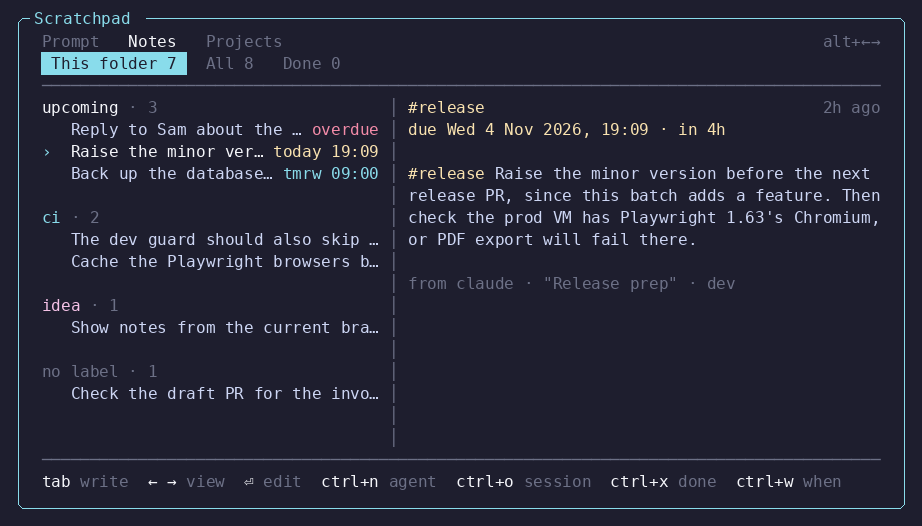
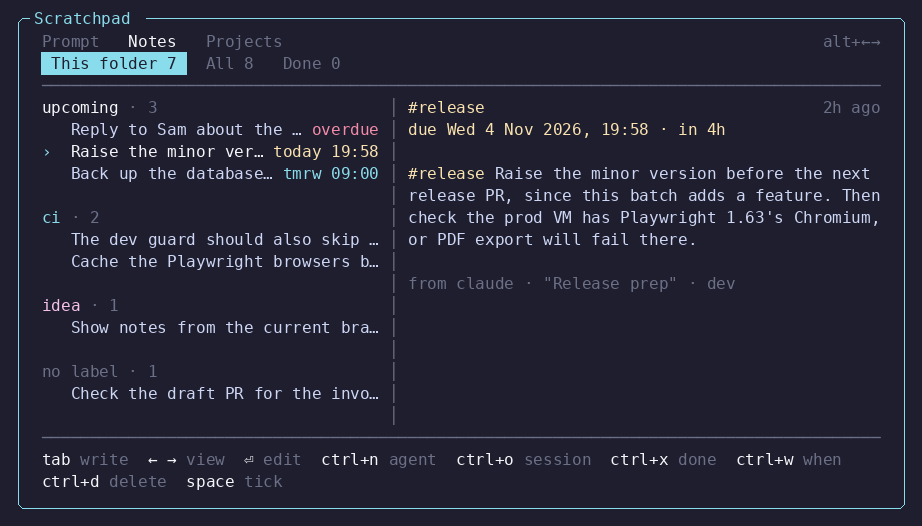
Wrap the notes footer onto a second line instead of cutting keys
Adding the view hint pushed delete and tick off the end at the default
width.

Changed region(s): [[0.0304, 0.8213, 0.9111, 0.943], [0.5163, 0.9125, 0.6377, 0.943], [0.3948, 0.2738, 0.4252, 0.3042]]

diff --git a/scratchpad/bin/popup.js b/scratchpad/bin/popup.js
@@ -149,6 +149,22 @@ function keys(pairs, width = Infinity) {
   return shown.join("  ");
 }
 
+// The same pairs over as many lines as they need.
+function keyLines(pairs, width) {
+  const lines = [[]];
+  let used = 0;
+  for (const [key, label] of pairs.filter(Boolean)) {
+    const size = displayWidth(`${key} ${label}`);
+    if (lines.at(-1).length && used + 2 + size > width) {
+      lines.push([]);
+      used = 0;
+    }
+    used += (lines.at(-1).length ? 2 : 0) + size;
+    lines.at(-1).push(`${style.bright(key)} ${style.dim(label)}`);
+  }
+  return lines.map((line) => line.join("  "));
+}
+
 function spread(left, right, width) {
   return left + " ".repeat(Math.max(1, width - displayWidth(left) - displayWidth(right))) + right;
 }
@@ -286,11 +302,11 @@ function emptyLines() {
 }
 
 function notesHints(width) {
-  if (state.notice) return style.warn(state.notice);
-  if (state.confirmDelete) return style.warn(`ctrl+d again deletes ${plural(targets().length, "note")} · any other key keeps them`);
-  if (!current()) return keys([["tab", "write"], ["← →", "view"], ["esc", "close"]]);
+  if (state.notice) return [style.warn(state.notice)];
+  if (state.confirmDelete) return [style.warn(`ctrl+d again deletes ${plural(targets().length, "note")} · any other key keeps them`)];
+  if (!current()) return [keys([["tab", "write"], ["← →", "view"], ["esc", "close"]])];
   const src = current().source ?? {};
-  return keys([
+  return keyLines([
     ["tab", "write"],
     ["← →", "view"],
     ["⏎", "edit"],
@@ -307,10 +323,11 @@ function notesBody(width, rows) {
   const lines = new Array(rows).fill("");
   lines[0] = tabRow(width);
   lines[1] = style.dim("─".repeat(width));
-  lines[rows - 2] = style.dim("─".repeat(width));
-  lines[rows - 1] = notesHints(width);
+  const hints = notesHints(width);
+  hints.forEach((line, i) => { lines[rows - hints.length + i] = line; });
+  lines[rows - hints.length - 1] = style.dim("─".repeat(width));
   const top = 2;
-  const height = rows - top - 2;
+  const height = rows - top - hints.length - 1;
 
   if (!state.notes.length) {
     emptyLines().forEach((line, i) => { if (i + 1 < height) lines[top + 1 + i] = `  ${line}`; });
